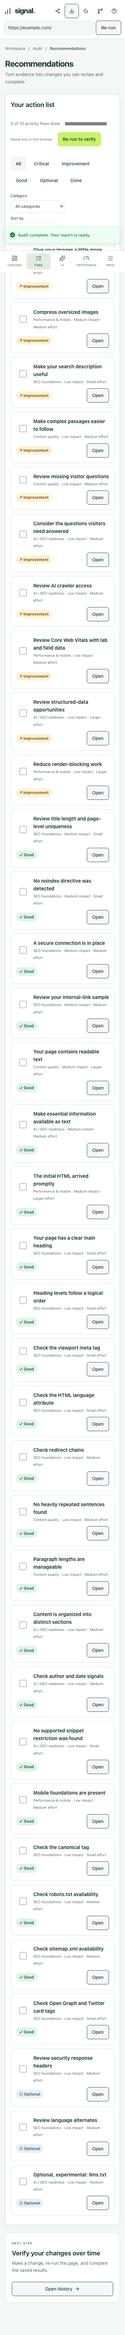
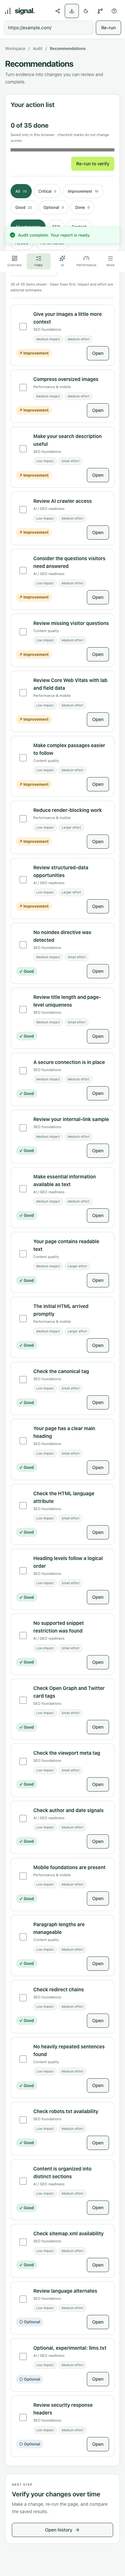
dd

Changed region(s): [[0.0308, 0.0, 0.9231, 0.9981], [0.8923, 0.0, 0.9231, 0.0312]]

diff --git a/components/recommendations.tsx b/components/recommendations.tsx
@@ -1,24 +1,57 @@
 'use client';
 import {useEffect,useState,useRef} from 'react';
 import {Button,Card,StatusChip,EmptyState,Drawer,DrawerContent,DrawerHeader,DrawerTitle,DrawerDescription,Toast} from './design-system';
+import RecommendationDetail,{type RecommendationText} from './recommendation-detail';
 import {categories,type Audit,type Finding} from '@/lib/audit/types';
-import {prioritize,priorityFor,isIssue} from '@/lib/audit/priorities';
-import {parseDone} from '@/lib/finding-tasks';
+import {priorityFor} from '@/lib/audit/priorities';
+import {parseDone,sortActionFindings} from '@/lib/finding-tasks';
 import {pageKey} from '@/lib/audit/history';
 import {navigateWorkspace,useWorkspaceLocation,useWorkspaceRoute} from '@/hooks/use-workspace-route';
-type Detail={why:string;change:string;example:string};
-export default function Recommendations({audit,detail,onRun}:{audit:Audit;detail:(finding:Finding)=>Detail;onRun:()=>void}){
- const location=useWorkspaceLocation();const activeView=useWorkspaceRoute()==='recommendations';const query=new URLSearchParams(location.split('?')[1]||'');const target=activeView?query.get('finding'):null;
- const [filter,setFilter]=useState('all'),[category,setCategory]=useState('all'),[sort,setSort]=useState('impact'),[done,setDone]=useState<string[]>([]),[opened,setOpened]=useState<string|null>(null),[mobile,setMobile]=useState(false),[note,setNote]=useState('');const rows=useRef<(HTMLDivElement|null)[]>([]);
- const key='signal-completed:'+pageKey(audit.url);
- useEffect(()=>{const load=()=>{try{setDone(parseDone(localStorage.getItem(key),audit.findings));}catch{setNote('Browser storage is unavailable. Completion marks last only for this visit.');}};load();const media=window.matchMedia('(max-width:767px)');const change=()=>setMobile(media.matches);change();media.addEventListener('change',change);return()=>media.removeEventListener('change',change);},[key,audit.findings]);
- useEffect(()=>{const timer=setTimeout(()=>{const finding=audit.findings.find(item=>item.id===target);setOpened(finding?.id||null);if(finding){setCategory('all');setFilter('all');document.getElementById('task-'+finding.id)?.scrollIntoView({block:'center'});}},0);return()=>clearTimeout(timer);},[target,audit.findings]);
- const issues=audit.findings.filter(isIssue);const completed=issues.filter(f=>done.includes(f.id)).length;
- const ordered=sort==='impact'?prioritize(audit.findings):[...audit.findings].sort((a,b)=>priorityFor(a).effort-priorityFor(b).effort);
- const findings=ordered.filter(f=>(filter==='all'||filter==='done'?filter!=='done'||done.includes(f.id):f.status===filter)&&(category==='all'||f.category===category));
- const selected=audit.findings.find(f=>f.id===opened);
- function toggle(finding:Finding){const next=done.includes(finding.id)?done.filter(id=>id!==finding.id):[...done,finding.id];setDone(next);try{localStorage.setItem(key,JSON.stringify(next));}catch{setNote('This completion mark could not be saved.');}Toast.success(next.includes(finding.id)?'Marked done in this browser':'Marked not done');}
- function open(finding:Finding){setOpened(opened===finding.id?null:finding.id);navigateWorkspace('recommendations',audit.url,finding.id);}
- function details(finding:Finding){const text=detail(finding);return <div className="ws-fix-detail"><h3>Why it matters</h3><p>{text.why}</p><h3>Evidence</h3><p>{finding.evidence}</p><h3>What to change</h3><p>{text.change}</p><h3>What an improved version could look like</h3><pre>{text.example}</pre><Button variant="outline" onClick={()=>void navigator.clipboard.writeText(text.example).then(()=>Toast.success('Fix example copied')).catch(()=>Toast.error('Copy failed. Select the example and copy it manually.'))}>Copy fix</Button><p><a href={finding.category==='performance'?'https://web.dev/articles/vitals':'https://developers.google.com/search/docs/fundamentals/seo-starter-guide'} target="_blank" rel="noreferrer">Read trusted guidance ↗</a></p><p>{finding.weight===0?'Advisory or optional · excluded from the score':`Score weight: ${finding.weight}`}. Marking done tracks your work; re-run the audit to verify a fix.</p></div>;}
- return <Card title="Your action list" className="ws-recommendations"><div className="ws-task-progress" role="status">{completed} of {issues.length} priority fixes done <progress value={completed} max={Math.max(1,issues.length)}/><small>Saved only in this browser</small><Button onClick={onRun}>Re-run to verify</Button></div>{note&&<p role="status">{note}</p>}{completed===issues.length&&issues.length>0&&<EmptyState title="Your priority fixes are marked done" description="Re-run the page to check the result, then compare the new audit with history."/>}<div className="ws-task-filters" aria-label="Priority filters">{['all','critical','improvement','good','optional','done'].map(value=><Button key={value} variant={filter===value?'secondary':'ghost'} aria-pressed={filter===value} onClick={()=>setFilter(value)}>{value[0].toUpperCase()+value.slice(1)}</Button>)}</div><div className="ws-task-filters"><label>Category<select value={category} onChange={event=>setCategory(event.target.value)}><option value="all">All categories</option>{Object.entries(categories).map(([key,value])=><option key={key} value={key}>{value}</option>)}</select></label><label>Sort by<select value={sort} onChange={event=>setSort(event.target.value)}><option value="impact">Impact ÷ effort</option><option value="effort">Smallest effort first</option></select></label><span>j / k move · Enter open · x mark done</span></div><div role="list" aria-label="Audit findings">{findings.map((finding,index)=>{const priority=priorityFor(finding);return <div className={'ws-task '+(done.includes(finding.id)?'is-done':'')} role="listitem" key={finding.id} id={'task-'+finding.id} ref={node=>{rows.current[index]=node;}} tabIndex={0} onKeyDown={event=>{if((event.target as HTMLElement).matches('input,button,select,textarea'))return;if(['j','k','Enter','x'].includes(event.key)){event.preventDefault();if(event.key==='j'||event.key==='k')rows.current[(index+(event.key==='j'?1:-1)+findings.length)%findings.length]?.focus();if(event.key==='Enter')open(finding);if(event.key==='x')toggle(finding);}}}><div className="ws-task-row"><label className="ws-complete-target"><input type="checkbox" checked={done.includes(finding.id)} onChange={()=>toggle(finding)} aria-label={`Mark ${finding.title} done`}/></label><StatusChip status={finding.status}/><div><h3>{finding.title}</h3><small>{categories[finding.category]} · {priority.impactLabel} impact · {priority.effortLabel} effort</small></div><Button variant="outline" onClick={()=>open(finding)} aria-expanded={opened===finding.id} aria-controls={'detail-'+finding.id}>Open</Button></div>{!mobile&&opened===finding.id&&<div id={'detail-'+finding.id}>{details(finding)}</div>}</div>;})}</div>{!findings.length&&<EmptyState title="No findings match these filters" description="Choose All or another category to see more checks." action={<Button variant="outline" onClick={()=>{setFilter('all');setCategory('all');}}>Reset filters</Button>}/>}<Drawer open={activeView&&mobile&&!!selected} onOpenChange={value=>{if(!value)setOpened(null);}}><DrawerContent className="ws-fix-drawer"><DrawerHeader><DrawerTitle>{selected?.title}</DrawerTitle><DrawerDescription>Evidence and practical next steps from this audit.</DrawerDescription></DrawerHeader>{selected&&details(selected)}</DrawerContent></Drawer></Card>;
+
+const statuses=['all','critical','improvement','good','optional','done'] as const;
+const categoryFilters=[['all','All categories'],['seo','SEO'],['content','Content'],['geo','AI/GEO'],['performance','Performance']] as const;
+export default function Recommendations({audit,detail,onRun}:{audit:Audit;detail:(finding:Finding)=>RecommendationText;onRun:()=>void}){
+ const location=useWorkspaceLocation();const activeView=useWorkspaceRoute()==='recommendations';
+ const target=activeView?new URLSearchParams(location.split('?')[1]||'').get('finding'):null;
+ const [filter,setFilter]=useState('all'),[category,setCategory]=useState('all'),[sort,setSort]=useState<'impact'|'effort'>('impact');
+ const [done,setDone]=useState<string[]>([]),[opened,setOpened]=useState<string|null>(null),[mobile,setMobile]=useState(false),[note,setNote]=useState('');
+ const rows=useRef<(HTMLDivElement|null)[]>([]);const memory=useRef(new Map<string,string[]>());const key='signal-completed:'+pageKey(audit.url);
+ useEffect(()=>{
+  const load=()=>{try{const next=parseDone(localStorage.getItem(key),audit.findings);memory.current.set(key,next);setDone(next);setNote('');}catch{setDone(parseDone(JSON.stringify(memory.current.get(key)||[]),audit.findings));setNote('Browser storage is unavailable. Completion marks last only for this visit.');}};
+  load();const onStorage=(event:StorageEvent)=>{if(event.key===key||event.key===null)load();};
+  window.addEventListener('storage',onStorage);return()=>window.removeEventListener('storage',onStorage);
+ },[key,audit.findings]);
+ useEffect(()=>{const media=window.matchMedia('(max-width:767px)');const change=()=>setMobile(media.matches);change();media.addEventListener('change',change);return()=>media.removeEventListener('change',change);},[]);
+ useEffect(()=>{
+  const timer=setTimeout(()=>{const finding=audit.findings.find(item=>item.id===target);setOpened(finding?.id||null);if(finding){setCategory('all');setFilter('all');}},0);
+  return()=>clearTimeout(timer);
+ },[target,audit.findings]);
+ useEffect(()=>{if(activeView&&opened&&!mobile)document.getElementById('task-'+opened)?.scrollIntoView({block:'nearest'});},[activeView,opened,mobile]);
+ const completed=audit.findings.filter(f=>done.includes(f.id)).length;
+ const findings=sortActionFindings(audit.findings,sort).filter(f=>(filter==='all'||(filter==='done'?done.includes(f.id):f.status===filter))&&(category==='all'||f.category===category));
+ const selected=findings.find(f=>f.id===opened);
+ function toggle(finding:Finding){
+  const next=done.includes(finding.id)?done.filter(id=>id!==finding.id):[...done,finding.id];memory.current.set(key,next);setDone(next);
+  try{localStorage.setItem(key,JSON.stringify(next));}catch{setNote('This completion mark could not be saved. It remains available in this tab.');}
+  Toast.success(next.includes(finding.id)?'Marked done in this browser':'Marked not done');
+ }
+ function close(){setOpened(null);if(target)navigateWorkspace('recommendations',audit.url);}
+ function open(finding:Finding){if(opened===finding.id){close();return;}setOpened(finding.id);navigateWorkspace('recommendations',audit.url,finding.id);}
+ function reset(){setFilter('all');setCategory('all');}
+ return <Card title="Your action list" className="ws-recommendations">
+  <div className="ws-task-progress" role="status"><div><strong>{completed} of {audit.findings.length} done</strong><small>Saved only in this browser · checklist marks do not change scores</small></div><progress aria-label="Recommendation completion" value={completed} max={Math.max(1,audit.findings.length)}/><Button onClick={onRun}>Re-run to verify</Button></div>
+  {note&&<p role="status">{note}</p>}
+  {completed===audit.findings.length&&completed>0&&<EmptyState title="Your checklist is complete" description="Every item is marked done. Re-run to verify your changes; completion marks alone do not confirm a fix." action={<Button variant="outline" onClick={onRun}>Verify with a new audit</Button>}/>}
+  <div className="ws-action-toolbar"><div className="ws-task-filters" role="group" aria-label="Priority filters">{statuses.map(value=>{const label=value[0].toUpperCase()+value.slice(1);const count=value==='all'?audit.findings.length:value==='done'?completed:audit.findings.filter(f=>f.status===value).length;return <Button key={value} variant={filter===value?'secondary':'ghost'} aria-label={label} aria-pressed={filter===value} onClick={()=>setFilter(value)}>{label}<span className="ws-filter-count" aria-hidden="true">{count}</span></Button>;})}</div>
+  <div className="ws-task-filters" role="group" aria-label="Category filters">{categoryFilters.map(([value,label])=><Button key={value} aria-pressed={category===value} variant={category===value?'secondary':'ghost'} onClick={()=>setCategory(value)}>{label}</Button>)}</div>
+  <div className="ws-action-sort"><label>Sort by<select aria-label="Sort by" value={sort} onChange={event=>setSort(event.target.value as 'impact'|'effort')}><option value="impact">Impact, then effort</option><option value="effort">Effort, then impact</option></select></label><p>{findings.length} of {audit.findings.length} items shown · Open fixes first. Impact and effort are editorial estimates.</p><span>j / k move · Enter open · x mark done</span></div></div>
+  <div role="list" aria-label="Audit findings">{findings.map((finding,index)=>{const priority=priorityFor(finding),expanded=opened===finding.id;return <div className={'ws-task '+(done.includes(finding.id)?'is-done':'')} role="listitem" key={finding.id} id={'task-'+finding.id} data-category={finding.category} data-status={finding.status} data-impact={priority.impact} data-effort={priority.effort} ref={node=>{rows.current[index]=node;}} tabIndex={0} onKeyDown={event=>{
+   if(event.target!==event.currentTarget||event.altKey||event.ctrlKey||event.metaKey)return;
+   const key=event.key.toLowerCase();if(!['j','k','enter','x'].includes(key))return;event.preventDefault();
+   if(key==='j'||key==='k')rows.current[(index+(key==='j'?1:-1)+findings.length)%findings.length]?.focus();
+   if(key==='enter')open(finding);if(key==='x')toggle(finding);
+  }}><div className="ws-task-row"><label className="ws-complete-target"><input type="checkbox" checked={done.includes(finding.id)} onChange={()=>toggle(finding)} aria-label={`Mark ${finding.title} ${done.includes(finding.id)?'not done':'done'}`}/></label><StatusChip status={finding.status}/><div className="ws-task-copy"><h3>{finding.title}</h3><small>{categories[finding.category]}</small><div className="ws-priority-tags"><span>{priority.impactLabel} impact</span><span>{priority.effortLabel} effort</span></div></div><Button variant="outline" onClick={()=>open(finding)} aria-label={`Open ${finding.title}`} aria-expanded={expanded} aria-haspopup={mobile?'dialog':undefined} aria-controls={expanded?'detail-'+finding.id:undefined}>Open</Button></div>{!mobile&&expanded&&<div id={'detail-'+finding.id}><RecommendationDetail finding={finding} text={detail(finding)}/></div>}</div>;})}</div>
+  {!findings.length&&<EmptyState title={audit.findings.length?'No findings match these filters':'No findings to review'} description={audit.findings.length?'Try another status or category, or reset the filters.':'Run an audit to create a checklist with evidence and practical fixes.'} action={audit.findings.length?<Button variant="outline" onClick={reset}>Reset filters</Button>:<Button variant="outline" onClick={onRun}>Run audit</Button>}/>}
+  <Drawer open={activeView&&mobile&&!!selected} onOpenChange={value=>{if(!value)close();}}><DrawerContent className="ws-fix-drawer"><DrawerHeader><DrawerTitle>{selected?.title}</DrawerTitle><DrawerDescription>Evidence and practical next steps from this audit.</DrawerDescription></DrawerHeader>{selected&&<div id={'detail-'+selected.id}><RecommendationDetail finding={selected} text={detail(selected)}/></div>}</DrawerContent></Drawer>
+ </Card>;
 }

diff --git a/tests/e2e/workspace.spec.ts b/tests/e2e/workspace.spec.ts
@@ -11,7 +11,7 @@ test('open a fix, mark done, copy, and retain completion after refresh',async({p
 test('share dialog, safe permalink, LinkedIn, and all file exports',async({page})=>{await audit(page);await page.getByRole('button',{name:'Share report',exact:true}).click();const modal=page.getByRole('dialog');await modal.getByRole('button',{name:'Copy link',exact:true}).click();await expect(modal.getByLabel('Share URL')).toHaveValue(/\/report\/[A-Za-z0-9_-]+$/);const popup=page.waitForEvent('popup');await modal.getByRole('button',{name:'Share on LinkedIn',exact:true}).click();const linkedin=await popup;await expect(linkedin).toHaveURL(/linkedin.com\/sharing\/share-offsite\/\?url=/);await linkedin.close();const png=page.waitForEvent('download');await modal.getByRole('button',{name:'Download scorecard PNG',exact:true}).click();expect((await png).suggestedFilename()).toMatch(/\.png$/);await page.keyboard.press('Escape');for(const format of ['JSON','CSV','HTML']){await page.getByRole('button',{name:'Export report',exact:true}).click();const download=page.waitForEvent('download');await page.getByRole('menuitem',{name:`Export ${format}`,exact:true}).click();expect((await download).suggestedFilename()).toMatch(new RegExp(`\\.${format.toLowerCase()}$`));}await page.getByRole('button',{name:'Export report',exact:true}).click();const printable=page.waitForEvent('popup');await page.getByRole('menuitem',{name:'Export PDF',exact:true}).click();const report=await printable;await expect(report.locator('.executive')).toContainText('EXECUTIVE SUMMARY');});
 test('keyboard palette, URL shortcut, row shortcuts, and theme',async({page,isMobile})=>{await audit(page);await page.locator('#workspace-title').focus();await page.keyboard.press('/');await expect(page.locator('#persistent-url')).toBeFocused();await page.keyboard.press('Control+k');await expect(page.getByRole('dialog')).toBeVisible();await page.getByLabel('Search commands').fill('Recommendations');await page.getByRole('button',{name:'Go to Recommendations',exact:true}).click();const row=page.locator('.ws-task').first();await row.focus();await page.keyboard.press('x');await expect(row.getByRole('checkbox')).toBeChecked();await page.keyboard.press('j');await expect(page.locator('.ws-task').nth(1)).toBeFocused();await page.keyboard.press('Enter');await expect(isMobile?page.getByRole('dialog'):page.locator('.ws-fix-detail').filter({visible:true})).toBeVisible();await page.keyboard.press('Escape');await page.locator('#workspace-title').focus();await page.keyboard.press('?');await expect(page.getByRole('heading',{name:'Keyboard shortcuts'})).toBeVisible();await page.keyboard.press('Escape');await page.getByRole('button',{name:'Use dark theme'}).click();await expect(page.locator('html')).toHaveClass(/dark/);});
 test('bulk and errors give feedback; history clearing asks first',async({page,isMobile})=>{await audit(page);await go(page,'history',isMobile);await page.getByRole('button',{name:'Clear saved history'}).click();await expect(page.getByRole('dialog')).toContainText('Clear saved history?');await page.getByRole('button',{name:'Keep history'}).click();await go(page,'bulk',isMobile);await page.getByLabel('Website URLs',{exact:true}).fill('http://localhost:3000');await page.getByRole('button',{name:'Run bulk audit'}).click();await expect(page.getByRole('alert')).toContainText('blocked');await page.route('**/api/bulk',route=>route.fulfill({json:{results:[{requestedUrl:live.url,audit:live}]}}));await page.getByLabel('Website URLs',{exact:true}).fill(live.url);await page.getByRole('button',{name:'Run bulk audit'}).click();await expect(page.locator('.ws-bulk-progress')).toContainText('Complete');await expect(page.locator('.bulk-table-wrap')).toContainText('example.com');});
-test('layout screenshots at the requested viewport and no horizontal page overflow',async({page,isMobile},info)=>{await audit(page);await expect(page.locator('.ws-top-fixes')).toBeVisible();await page.screenshot({path:`docs/screenshots/overview-${isMobile?'390':'1280'}.png`,fullPage:true});await page.screenshot({path:`docs/screenshots/viewport-${isMobile?'390':'1280'}.png`});await go(page,'recommendations',isMobile);await page.screenshot({path:`docs/screenshots/recommendations-${isMobile?'390':'1280'}.png`,fullPage:true});await page.getByRole('button',{name:'Use dark theme'}).click();await page.screenshot({path:`docs/screenshots/dark-${isMobile?'390':'1280'}.png`,fullPage:true});const width=await page.evaluate(()=>({document:document.documentElement.scrollWidth,viewport:innerWidth}));expect(width.document,info.project.name).toBeLessThanOrEqual(width.viewport+1);});
+test('layout screenshots at the requested viewport and no horizontal page overflow',async({page,isMobile},info)=>{await audit(page);await expect(page.locator('.ws-top-fixes')).toBeVisible();await page.screenshot({path:`docs/screenshots/overview-${isMobile?'390':'1280'}.png`,fullPage:true});await page.screenshot({path:`docs/screenshots/viewport-${isMobile?'390':'1280'}.png`});await go(page,'recommendations',isMobile);await page.screenshot({path:`docs/screenshots/recommendations-viewport-${isMobile?'390':'1280'}.png`});await page.screenshot({path:`docs/screenshots/recommendations-${isMobile?'390':'1280'}.png`,fullPage:true});await page.getByRole('button',{name:'Use dark theme'}).click();await page.screenshot({path:`docs/screenshots/dark-${isMobile?'390':'1280'}.png`,fullPage:true});const width=await page.evaluate(()=>({document:document.documentElement.scrollWidth,viewport:innerWidth}));expect(width.document,info.project.name).toBeLessThanOrEqual(width.viewport+1);});
 test('foreground text and controls meet 4.5:1 contrast in both themes',async({page,isMobile})=>{await audit(page);await go(page,'recommendations',isMobile);for(const dark of [false,true]){if(dark)await page.getByRole('button',{name:'Use dark theme'}).click();const checks=await page.evaluate(()=>{const rgb=(value:string)=>value.match(/[\d.]+/g)?.slice(0,3).map(Number)||[255,255,255];const lum=(values:number[])=>values.map(value=>{const n=value/255;return n<=.04045?n/12.92:((n+.055)/1.055)**2.4;}).reduce((sum,n,i)=>sum+n*[.2126,.7152,.0722][i],0);return [...document.querySelectorAll<HTMLElement>('.ws-page-header h1,.ws-page-header p,.ws-task-row h3,.ws-task-row small,.ws-task-row button,.ws-task-row .ds-status,.ws-nav-group a[aria-current],.ws-url button')].filter(element=>element.getClientRects().length&&!element.closest('[hidden]')).map(element=>{let node:HTMLElement|null=element;let background='rgb(255,255,255)';while(node){const color=getComputedStyle(node).backgroundColor;if(color!=='rgba(0, 0, 0, 0)'&&color!=='transparent'){background=color;break;}node=node.parentElement;}const a=lum(rgb(getComputedStyle(element).color)),b=lum(rgb(background));return {text:element.textContent?.slice(0,60),ratio:(Math.max(a,b)+.05)/(Math.min(a,b)+.05)};});});for(const check of checks)expect(check.ratio,`${dark?'dark':'light'} ${check.text}`).toBeGreaterThanOrEqual(4.5);}});
 test('onboarding is dismissible, follows three steps, and stays dismissed',async({browser,baseURL})=>{const context=await browser.newContext();await context.route('https://**/*',route=>route.abort());const page=await context.newPage();await page.goto(baseURL||'http://127.0.0.1:8792/');await page.getByRole('button',{name:'See sample',exact:true}).click();const tour=page.getByRole('dialog',{name:'Welcome to Signal'});await expect(tour).toContainText('1 OF 3');await tour.getByRole('button',{name:'Next',exact:true}).click();await expect(tour).toContainText('2 OF 3');await tour.getByRole('button',{name:'Next',exact:true}).click();await expect(tour).toContainText('3 OF 3');await tour.getByRole('button',{name:'Got it',exact:true}).click();await page.reload();await expect(tour).toHaveCount(0);await context.close();});
 test('audit failures explain the cause and offer retry',async({page})=>{await page.route('**/api/audit',route=>route.fulfill({status:403,json:{error:'This address is blocked. Use a public website domain.'}}));await page.goto('/');await page.locator('#persistent-url').fill('https://example.com/');await page.locator('.ws-url').getByRole('button').click();await expect(page.getByRole('alert')).toContainText('blocked');await expect(page.getByRole('button',{name:'Try again',exact:true})).toBeVisible();});
@@ -93,4 +93,41 @@ test('invalid syntax and unsupported protocols are explained before any request'
  let requests=0;page.on('request',request=>{if(new URL(request.url()).pathname==='/api/audit')requests++;});await page.goto('/');
  for(const value of ['','not a url','ftp://example.com/']){await page.locator('#persistent-url').fill(value);await page.locator('.ws-url').getByRole('button').click();await expect(page.getByRole('alert')).toContainText('valid');}
  expect(requests).toBe(0);
+});
+
+test('recommendation status and category chips intersect; reset recovers empty results',async({page,isMobile})=>{
+ await audit(page);await go(page,'recommendations',isMobile);
+ const statuses=page.getByRole('group',{name:'Priority filters'}),categories=page.getByRole('group',{name:'Category filters'});
+ for(const [status,label] of [['all','All'],['critical','Critical'],['improvement','Improvement'],['good','Good'],['optional','Optional']] as const){
+  await statuses.getByRole('button',{name:label,exact:true}).click();await expect(statuses.getByRole('button',{name:label,exact:true})).toHaveAttribute('aria-pressed','true');
+  for(const [category,name] of [['seo','SEO'],['content','Content'],['geo','AI/GEO'],['performance','Performance']] as const){
+   await categories.getByRole('button',{name,exact:true}).click();const expected=live.findings.filter(f=>(status==='all'||f.status===status)&&f.category===category);
+   await expect(page.locator('.ws-task')).toHaveCount(expected.length);
+  }
+ }
+ await statuses.getByRole('button',{name:'Done',exact:true}).click();await expect(page.getByRole('heading',{name:'No findings match these filters'})).toBeVisible();await page.getByRole('button',{name:'Reset filters'}).click();await expect(page.locator('.ws-task')).toHaveCount(live.findings.length);
+ const rows=await page.locator('.ws-task').evaluateAll(elements=>elements.map(el=>({impact:Number(el.getAttribute('data-impact')),effort:Number(el.getAttribute('data-effort')),actionable:['critical','improvement'].includes(el.getAttribute('data-status')||'')})));
+ for(let i=1;i<rows.length;i++){expect(Number(rows[i].actionable)).toBeLessThanOrEqual(Number(rows[i-1].actionable));if(rows[i].actionable===rows[i-1].actionable){expect(rows[i].impact).toBeLessThanOrEqual(rows[i-1].impact);if(rows[i].impact===rows[i-1].impact)expect(rows[i].effort).toBeGreaterThanOrEqual(rows[i-1].effort);}}
+ await page.getByLabel('Sort by',{exact:true}).selectOption('effort');for(const statusGroup of ['critical,improvement','good,optional']){const efforts=await page.locator('.ws-task').evaluateAll((elements,statusGroup)=>elements.filter(el=>statusGroup.split(',').includes(el.getAttribute('data-status')||'')).map(el=>Number(el.getAttribute('data-effort'))),statusGroup);expect(efforts).toEqual([...efforts].sort((a,b)=>a-b));}
+});
+test('Good and Optional completion count equally, persist locally, and never change the score',async({page,isMobile})=>{
+ let requests=0;page.on('request',request=>{if(new URL(request.url()).pathname==='/api/audit')requests++;});await audit(page);await go(page,'recommendations',isMobile);
+ const filters=page.getByRole('group',{name:'Priority filters'});
+ for(const label of ['Good','Optional']){await filters.getByRole('button',{name:label,exact:true}).click();await page.locator('.ws-task').first().getByRole('checkbox').check();}
+ await expect(page.locator('.ws-task-progress')).toContainText(`2 of ${live.findings.length} done`);await page.reload();await expect(page.locator('.ws-task-progress')).toContainText(`2 of ${live.findings.length} done`);
+ await go(page,'overview',isMobile);await expect(page.locator('.ws-score-rings').getByRole('button').filter({hasText:'Overall'})).toHaveAttribute('aria-label',new RegExp(`${live.score} of 100`));expect(requests).toBe(1);
+});
+test('all-done checklist has a verification empty state and can be reopened',async({page,isMobile})=>{
+ await page.addInitScript(({url,ids})=>localStorage.setItem('signal-completed:'+url,JSON.stringify(ids)),{url:live.url,ids:live.findings.map(f=>f.id)});
+ await audit(page);await go(page,'recommendations',isMobile);await expect(page.getByRole('heading',{name:'Your checklist is complete'})).toBeVisible();await expect(page.locator('.ws-task-progress')).toContainText(`${live.findings.length} of ${live.findings.length} done`);
+ await page.locator('.ws-task').first().getByRole('checkbox').uncheck();await expect(page.getByRole('heading',{name:'Your checklist is complete'})).not.toBeVisible();await expect(page.locator('.ws-task-progress')).toContainText(`${live.findings.length-1} of ${live.findings.length} done`);
+});
+test('recommendation keyboard movement wraps and leaves child controls alone',async({page,isMobile})=>{
+ await audit(page);await go(page,'recommendations',isMobile);const rows=page.locator('.ws-task');await rows.first().focus();await page.keyboard.press('k');await expect(rows.last()).toBeFocused();await page.keyboard.press('j');await expect(rows.first()).toBeFocused();await page.keyboard.press('x');await expect(rows.first().getByRole('checkbox')).toBeChecked();await page.keyboard.press('x');await expect(rows.first().getByRole('checkbox')).not.toBeChecked();
+ await page.getByLabel('Sort by',{exact:true}).focus();await page.keyboard.press('x');await expect(page.locator('.ws-task-progress')).toContainText('0 of');
+ await rows.first().focus();await page.keyboard.press('Enter');const detail=isMobile?page.getByRole('dialog'):rows.first().locator('.ws-fix-detail');await expect(detail.getByRole('heading',{name:'Evidence',exact:true})).toBeVisible();await detail.getByRole('button',{name:'Copy fix',exact:true}).click();await expect(page.locator('[data-sonner-toast]').filter({hasText:'Fix example copied'})).toBeVisible();
+});
+test('completion survives unavailable storage in memory and copy errors give useful feedback',async({page,isMobile})=>{
+ await page.addInitScript(()=>{const get=Storage.prototype.getItem,set=Storage.prototype.setItem;Storage.prototype.getItem=function(key){if(key.startsWith('signal-completed:'))throw new Error('storage blocked');return get.call(this,key);};Storage.prototype.setItem=function(key,value){if(key.startsWith('signal-completed:'))throw new Error('storage blocked');return set.call(this,key,value);};Object.defineProperty(navigator,'clipboard',{value:{writeText:()=>Promise.reject(new Error('clipboard blocked'))}});});
+ await audit(page);await go(page,'recommendations',isMobile);await expect(page.locator('.ws-recommendations')).toContainText('Browser storage is unavailable');const row=page.locator('.ws-task').first();await row.getByRole('checkbox').check();await expect(page.locator('.ws-task-progress')).toContainText('1 of');await row.getByRole('button',{name:/^Open /}).click();const detail=isMobile?page.getByRole('dialog'):row.locator('.ws-fix-detail');await detail.getByRole('button',{name:'Copy fix',exact:true}).click();await expect(page.locator('[data-sonner-toast]').filter({hasText:'Copy failed'})).toBeVisible();
 });

diff --git a/components/workspace.css b/components/workspace.css
@@ -12,3 +12,7 @@
 /* Focused first run and evidence-led results. */
 .ws-main .ws-first-run{display:block;padding:48px;max-width:960px;margin:0 auto 24px;background:var(--ds-card);border:1px solid var(--ds-border);border-radius:20px}.ws-main .ws-first-run .starter-copy{max-width:660px}.ws-main .ws-first-run .starter-copy h2{font-size:clamp(30px,4vw,48px);line-height:1.13;letter-spacing:-1.5px;margin:16px 0}.ws-first-run .starter-copy>p{max-width:620px;margin-bottom:32px;font-size:17px}.ws-first-run .audit-form{width:100%;max-width:none}.ws-first-run .url-control{padding:8px;display:flex;gap:12px;border-radius:12px;align-items:center}.ws-first-run .url-control input{min-height:48px;font-size:16px}.ws-first-run .url-control>button{min-height:48px;padding:12px 24px;background:var(--ds-accent);color:var(--ds-on-accent)}.ws-first-run .quick-start{margin:16px 0 24px;display:flex;align-items:center;gap:16px}.ws-trust{display:grid;gap:8px;list-style:none;padding:20px 0 0;border-top:1px solid var(--ds-border);margin-top:24px}.ws-trust li{display:flex;gap:8px;align-items:center;font-size:13px;color:var(--ds-muted)}.ws-storage-note{font-size:12px;margin-top:12px}.ws-running-heading{display:flex;align-items:center;justify-content:space-between;gap:16px;margin-bottom:24px}.ws-running-heading h2{font-size:22px;font-weight:650}.ws-running-heading p{overflow-wrap:anywhere}.ws-running>p{font-size:12px;margin-top:20px;color:var(--ds-muted)}.ws-result-skeletons{display:grid;grid-template-columns:1fr 1fr;gap:16px}.ws-report-kind{font-size:11px;color:var(--ds-muted);text-transform:uppercase;letter-spacing:.8px}.ws-summary-url{font-size:15px;margin:8px 0 16px}.ws-summary .ws-score-rings{border-top:1px solid var(--ds-border);padding-top:16px}.ws-strength-link{display:flex;align-items:center;gap:8px;text-align:left;padding:8px 0;color:var(--ds-text);font-size:14px}.ws-strength-link:hover{text-decoration:underline}.ws-inspector{scroll-margin-top:140px}.ws-inspector .ws-fix-detail{border-top:0;padding:0}.ws-inspector-actions{display:flex;gap:8px;flex-wrap:wrap}.ws-inspector:focus{outline:none}.ws-inspector .ds-card{border-color:var(--ds-accent)}.ws-running .ds-steps li[data-state=complete]{color:var(--ds-success)}
 @media(max-width:767px){.ws-main .ws-first-run{padding:24px}.ws-first-run .quick-start{align-items:start;flex-direction:column;gap:8px}.ws-result-skeletons{grid-template-columns:1fr}.ws-running-heading{align-items:start}.ws-main .ws-first-run .starter-copy h2{font-size:32px}.ws-inspector{scroll-margin-top:140px}.ws-inspector .ds-card>header{align-items:start;flex-wrap:wrap}}
+
+/* Recommendations: one review queue, with explicit priorities and local progress. */
+.ws-task-progress>div{display:grid;gap:4px;flex:1;min-width:180px}.ws-task-progress strong{font-size:20px;color:var(--ds-text)}.ws-task-progress small{font-size:11px}.ws-action-toolbar{border-top:1px solid var(--ds-border);border-bottom:1px solid var(--ds-border);padding:8px 0 16px;margin-bottom:20px}.ws-recommendations .ws-task-filters{gap:6px}.ws-recommendations .ws-task-filters button{border:1px solid var(--ds-border);border-radius:999px;padding:8px 14px;font-size:12px}.ws-recommendations .ws-task-filters button[aria-pressed=true]{background:var(--ds-accent);color:var(--ds-on-accent);border-color:var(--ds-accent)}.ws-filter-count{font-size:10px;opacity:.85}.ws-action-sort{display:flex;gap:16px;flex-wrap:wrap;align-items:end;font-size:11px;color:var(--ds-muted)}.ws-action-sort label{display:grid;gap:4px}.ws-action-sort select{min-height:44px;border:1px solid var(--ds-border);border-radius:8px;padding:8px 12px;background:var(--ds-card);color:var(--ds-text)}.ws-action-sort p{flex:1;margin:0}.ws-task-copy{min-width:0}.ws-priority-tags{display:flex;flex-wrap:wrap;gap:6px;margin-top:8px}.ws-priority-tags span{font-size:10px;line-height:1.5;padding:3px 8px;border:1px solid var(--ds-border);border-radius:999px;color:var(--ds-muted);background:var(--ds-bg)}.ws-recommendations .ws-task-row{padding:20px 16px}.ws-task.is-done{background:var(--ds-bg)}.ws-task.is-done h3::after{font-size:12px}.ws-recommendations .ws-fix-detail pre{border:1px solid var(--ds-border)}
+@media(max-width:767px){.ws-action-sort>span{display:none}.ws-task-progress>progress{max-width:none;flex-basis:100%;width:100%}.ws-task-progress>button{margin-left:auto}.ws-recommendations .ws-task-row{padding:16px}.ws-recommendations .ws-task-copy{flex-basis:60%}.ws-action-sort p{flex-basis:100%}}

diff --git a/scripts/verify-workspace.ts b/scripts/verify-workspace.ts
@@ -62,3 +62,27 @@ assert.match(progress,/Unavailable/);assert.doesNotMatch(progress,/In progress/)
 const {auditInputError}=await import('../lib/workspace-experience');
 for(const value of ['',null,'not a url','ftp://example.com/','https://exa mple.com/','a'.repeat(2049)])assert.ok(auditInputError(value));
 for(const value of ['example.com','https://example.com/path?q=a%20b','  https://example.com/  '])assert.equal(auditInputError(value),null);
+
+// Recommendation ordering is lexicographic impact / effort, never an impact-to-effort ratio.
+const {sortActionFindings}=await import('../lib/finding-tasks');
+const actionFixture=[
+ {...sampleAudit.findings[0],id:'schema',status:'critical' as const,weight:2},
+ {...sampleAudit.findings[0],id:'description',status:'critical' as const,weight:1},
+ {...sampleAudit.findings[0],id:'alt',status:'improvement' as const,weight:2},
+ {...sampleAudit.findings[0],id:'viewport',status:'improvement' as const,weight:2},
+ {...sampleAudit.findings[0],id:'title',status:'good' as const,weight:1},
+ {...sampleAudit.findings[0],id:'llms-txt',status:'optional' as const,weight:0},
+];
+const originalOrder=actionFixture.map(f=>f.id);
+assert.deepEqual(sortActionFindings(actionFixture).map(f=>f.id),['description','schema','viewport','alt','title','llms-txt']);
+assert.deepEqual(sortActionFindings(actionFixture,'effort').map(f=>f.id),['description','viewport','alt','schema','title','llms-txt']);
+assert.deepEqual(actionFixture.map(f=>f.id),originalOrder);
+assert.deepEqual(sortActionFindings([]),[]);
+const {default:RecommendationDetail}=await import('../components/recommendation-detail');
+const snippet=renderToStaticMarkup(createElement(RecommendationDetail,{finding:actionFixture[0],text:{why:'Clear source signals',change:'Add valid markup',example:'<script>alert("example")</script>'}}));
+assert.match(snippet,/Copy fix/);assert.match(snippet,/&lt;script&gt;/);assert.doesNotMatch(snippet,/<script>/);
+const noSnippet=renderToStaticMarkup(createElement(RecommendationDetail,{finding:actionFixture[5],text:{why:'Optional context',change:'Review if useful',example:' '}}));
+assert.doesNotMatch(noSnippet,/Copy fix/);assert.match(noSnippet,/excluded from the score/);
+
+const goodHighWeight={...actionFixture[4],id:'lang',weight:5};
+assert.equal(sortActionFindings([goodHighWeight,{...actionFixture[3],weight:1}])[0].status,'improvement');

diff --git a/components/recommendation-detail.tsx b/components/recommendation-detail.tsx
@@ -1,0 +1,8 @@
+'use client';
+import type {Finding} from '@/lib/audit/types';
+import {Button,Toast} from './design-system';
+
+export type RecommendationText={why:string;change:string;example:string};
+export default function RecommendationDetail({finding,text}:{finding:Finding;text:RecommendationText}){
+ return <div className="ws-fix-detail"><h3>Why it matters</h3><p>{text.why}</p><h3>Evidence</h3><p>{finding.evidence}</p><h3>What to change</h3><p>{text.change}</p>{text.example.trim()&&<><h3>What an improved version could look like</h3><pre>{text.example}</pre><Button variant="outline" onClick={()=>void navigator.clipboard.writeText(text.example).then(()=>Toast.success('Fix example copied')).catch(()=>Toast.error('Copy failed. Select the example and copy it manually.'))}>Copy fix</Button></>}<p><a href={finding.category==='performance'?'https://web.dev/articles/vitals':'https://developers.google.com/search/docs/fundamentals/seo-starter-guide'} target="_blank" rel="noreferrer">Read trusted guidance ↗</a></p><p>{finding.weight===0?'Advisory or optional · excluded from the score':`Score weight: ${finding.weight}`}. Marking done tracks your work; re-run the audit to verify a fix.</p></div>;
+}

diff --git a/lib/finding-tasks.ts b/lib/finding-tasks.ts
@@ -1,3 +1,11 @@
 import type {Finding} from './audit/types';
+import {priorityFor,isIssue} from './audit/priorities';
 export function parseDone(raw:string|null,findings:Finding[]){try{if(!raw||raw.length>20_000)return [];const data=JSON.parse(raw);if(!Array.isArray(data))return [];const valid=new Set(findings.map(f=>f.id));return [...new Set(data.filter((id:unknown):id is string=>typeof id==='string'&&valid.has(id)))].slice(0,200);}catch{return [];}}
-export function sortActionFindings(findings:Finding[]){const impact=(f:Finding)=>f.status==='critical'?3:f.status==='improvement'?2:0;return [...findings].sort((a,b)=>impact(b)-impact(a)||b.weight-a.weight);}
+export function sortActionFindings(findings:Finding[],sort:'impact'|'effort'='impact'){
+ const statuses={critical:0,improvement:1,good:2,optional:3};
+ return [...findings].sort((a,b)=>{
+  const left=priorityFor(a),right=priorityFor(b);
+  const impact=right.impact-left.impact,effort=left.effort-right.effort;
+  return Number(isIssue(b))-Number(isIssue(a))||(sort==='impact'?impact||effort:effort||impact)||statuses[a.status]-statuses[b.status]||a.id.localeCompare(b.id);
+ });
+}

diff --git a/docs/ui-workspace.md b/docs/ui-workspace.md
@@ -47,3 +47,11 @@ The overview initially shows a focused URL form, one primary Run audit action, a
 While the bounded audit request is pending, fetching and resource checks are shown as in progress together: the JSON endpoint does not expose individual progress events. Steps do not advance on a timer. Once the response arrives, scoring is complete and isolated rendering is tracked separately. Skeletons stand in for results during the request. Cancel aborts the request or removes the lab frame; late responses cannot replace the visible result. Unavailable lab measurements remain unscored.
 
 Category rings, Top 3 fixes, strengths, and SEO/content findings link to the appropriate analysis route with a validated `finding` query parameter. The expanded evidence panel includes why the check matters, the specific fix, an illustrative example, Copy fix, and Track this fix. The latter opens the existing completion workflow. Unknown IDs and findings from another category do not open an unrelated panel. Refresh and Back/Forward preserve selection. Each screen’s Next step is based on its role and current findings rather than the same generic action everywhere.
+
+## Recommendations action queue
+
+Status and category chips combine without changing the underlying audit. Actionable Critical and Improvement findings appear first, followed by Good and Optional checks. Within those groups, default ordering is descending editorial impact, then ascending effort; the alternative orders by effort, then impact. Exact ties resolve consistently by status and check ID. These are editorial estimates, not predicted traffic gains or implementation hours. Other report priority lists retain their existing ordering.
+
+Completion counts every check, including Good and Optional, across all filters. Only valid finding IDs are persisted under the page's browser-local completion key; the marks never affect scores or findings. The all-done state asks users to verify changes with another audit. Storage failures retain marks in memory and show a notice. Browser storage events synchronize the checklist across tabs.
+
+Each row supports j/k (wrapping), Enter to open, and x to toggle completion while the row itself has focus. Typing and interaction inside child controls are left alone. Expanded evidence is inline on desktop and in a focus-managed mobile drawer; closing removes the finding selection from the URL. Snippets are rendered as escaped text and provide a Copy fix action with failure feedback.
